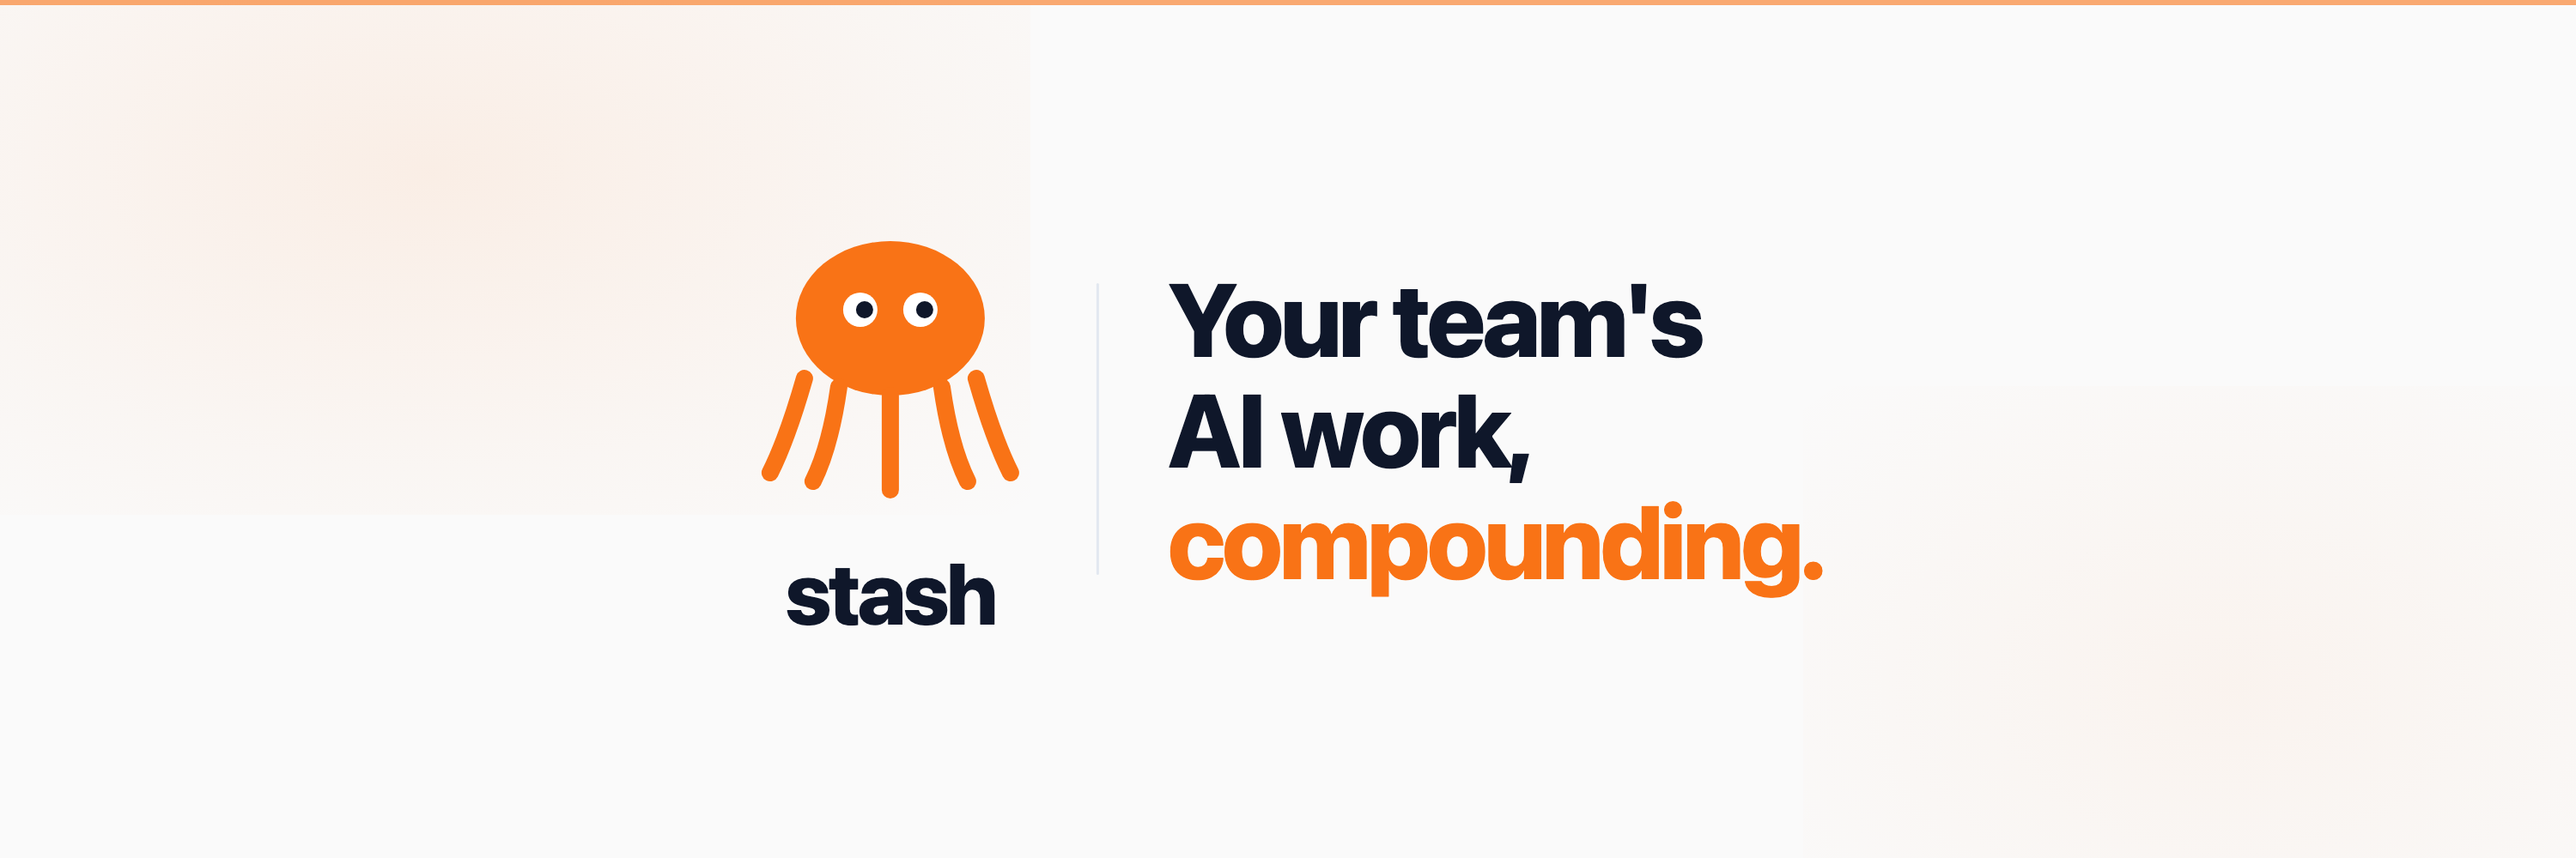
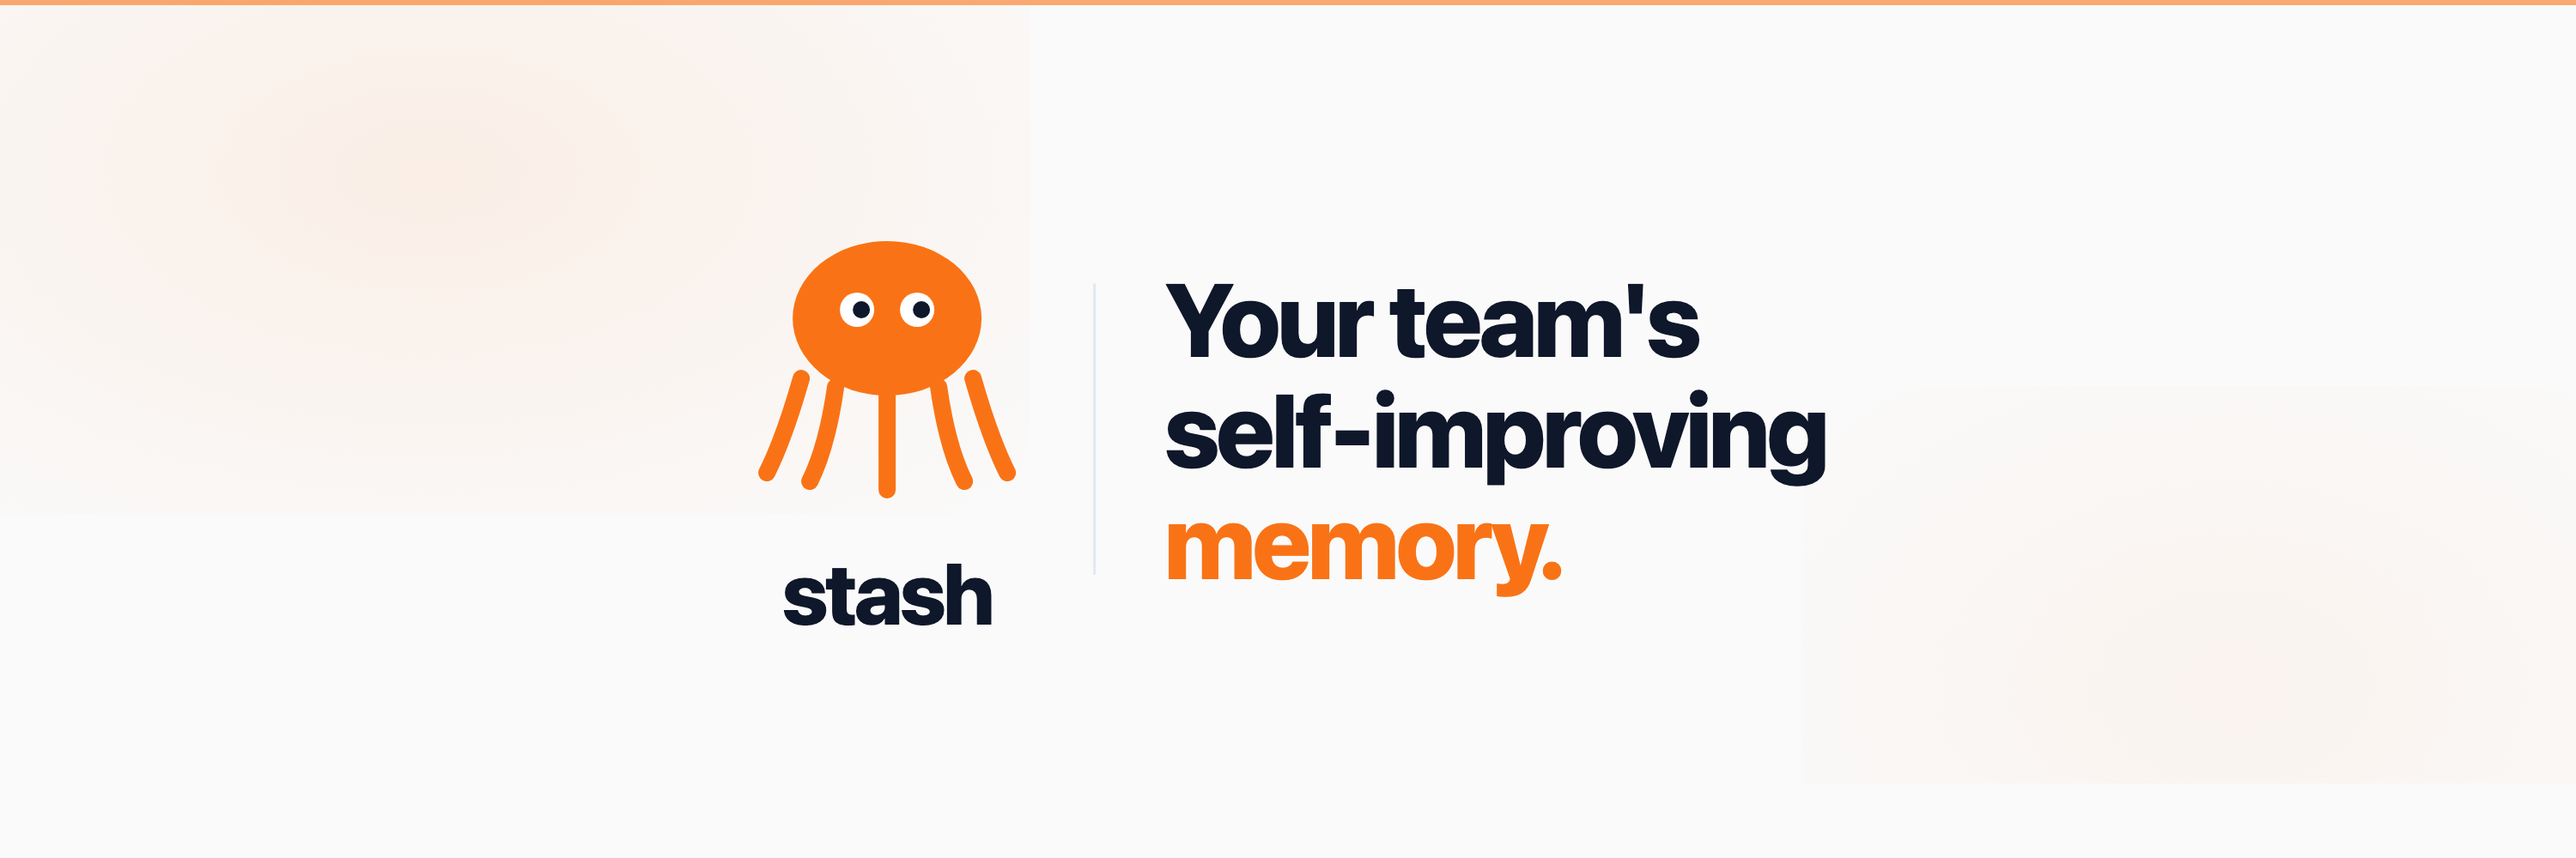
new brand assets

diff --git a/www/app/page.tsx b/www/app/page.tsx
@@ -306,9 +306,9 @@ function Hero() {
           </ScrollLink>
 
           <h1 className="mt-7 text-balance font-display text-[clamp(44px,6.2vw,80px)] font-black leading-[0.95] tracking-[-0.045em] text-ink">
-            Your team&apos;s AI work,
+            Your team&apos;s self-improving
             <br />
-            <span className="text-brand">compounding.</span>
+            <span className="text-brand">memory.</span>
           </h1>
 
           <p className="mt-7 max-w-[520px] text-[18px] leading-[1.55] text-foreground">

diff --git a/twitter-header.html b/twitter-header.html
@@ -106,8 +106,8 @@
 
     <div class="tagline">
       <div class="line">Your team's</div>
-      <div class="line">AI work,</div>
-      <div class="line orange">compounding.</div>
+      <div class="line">self-improving</div>
+      <div class="line orange">memory.</div>
     </div>
   </div>
 </body>

diff --git a/cli/main.py b/cli/main.py
@@ -1325,6 +1325,7 @@ def hist_push(
     attach_id: list[str] = typer.Option(
         None, "--attach-id", help="Pre-uploaded file id to attach (repeatable)."
     ),
+    created_at: str = typer.Option(None, "--created-at", help="ISO-8601 timestamp (e.g. 2026-04-22T10:30:00Z)."),
     as_json: bool = typer.Option(False, "--json"),
 ):
     """Push an event to the workspace history."""
@@ -1350,6 +1351,7 @@ def hist_push(
                 session_id=session_id,
                 tool_name=tool_name,
                 attachments=attachments or None,
+                created_at=created_at,
             )
         except StashError as e:
             _err(e)
